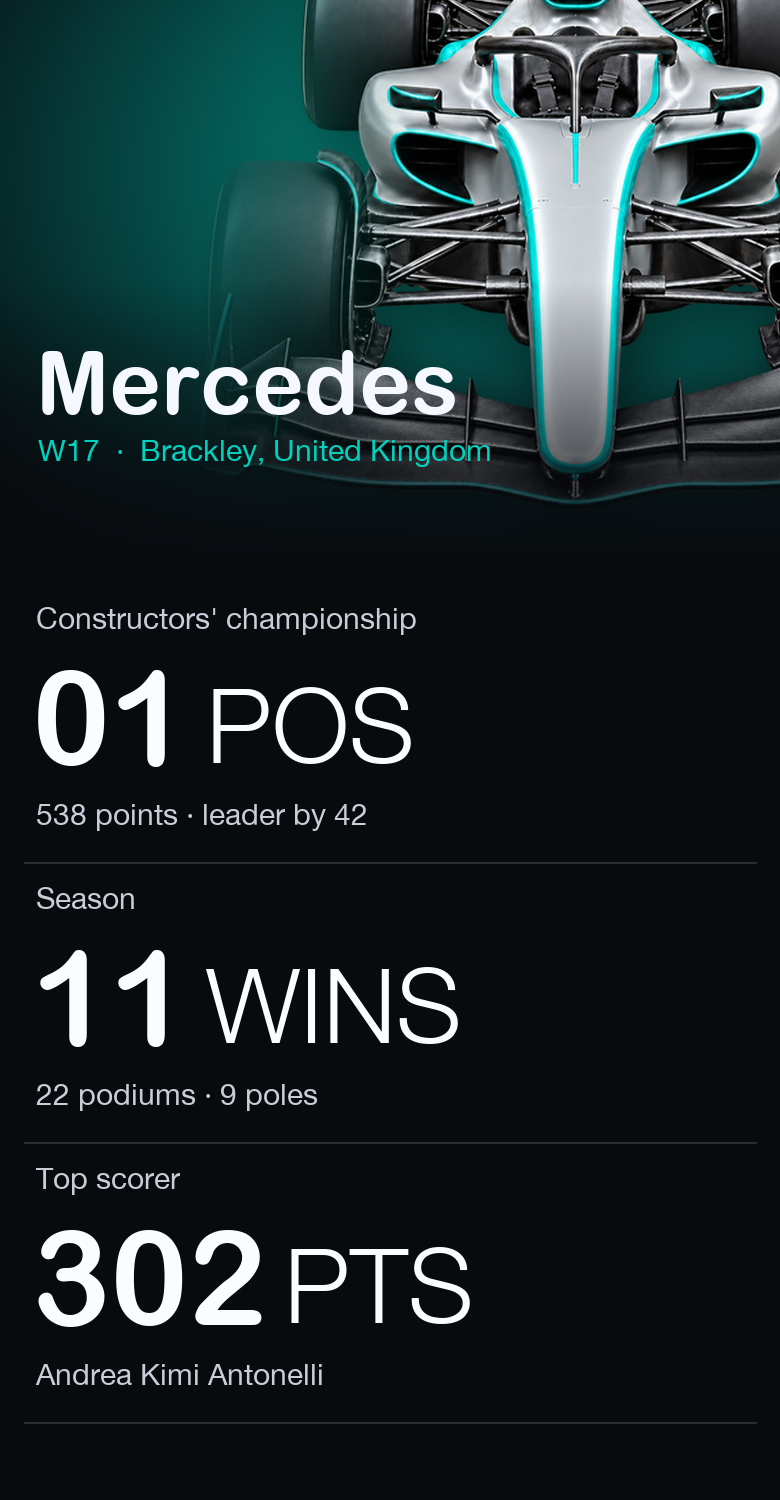
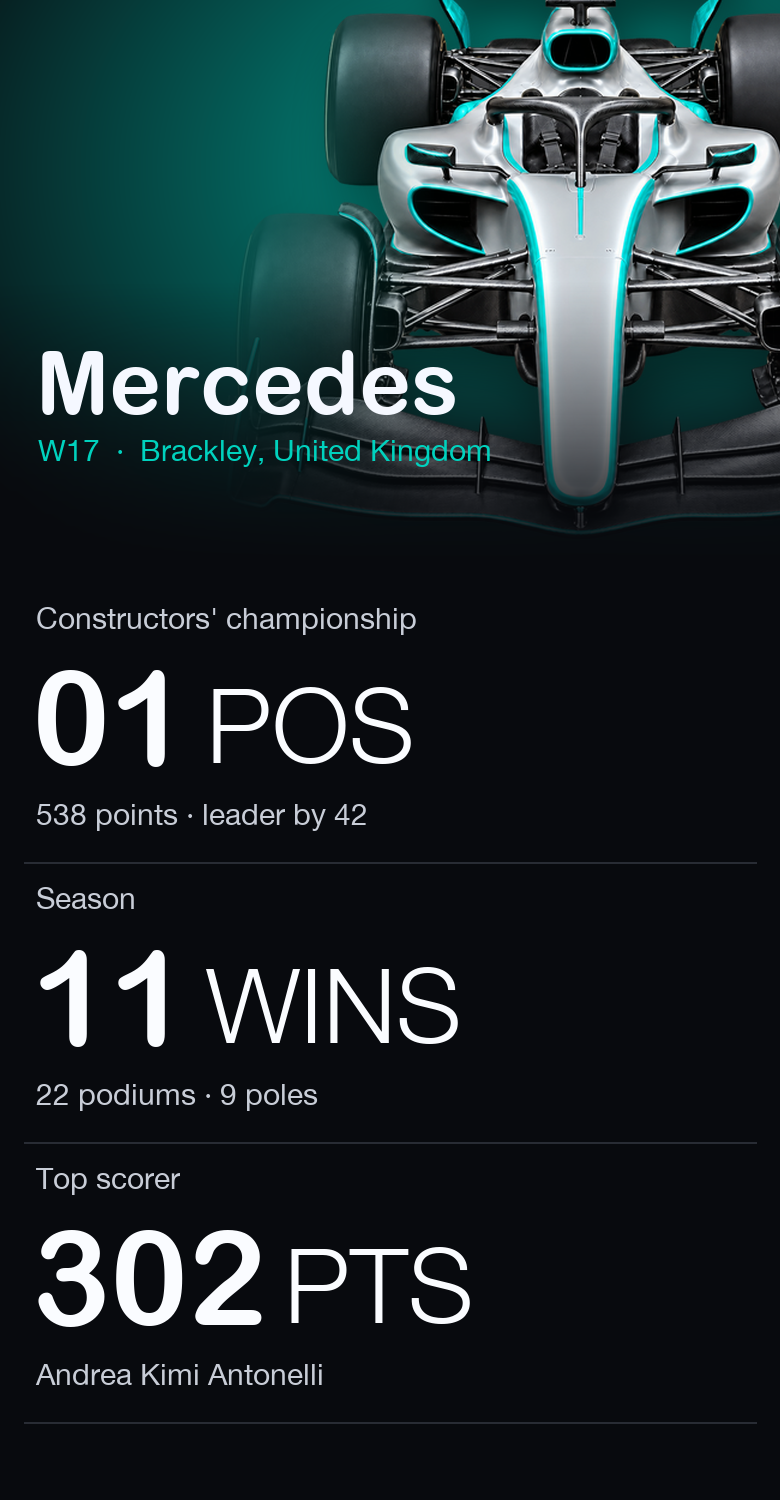
Team sheet mock: car smaller and lower again

Changed region(s): [[0.2769, 0.0, 1.0, 0.3373]]

diff --git a/scripts/design/mock_profile_sheets.py b/scripts/design/mock_profile_sheets.py
@@ -30,8 +30,8 @@ def team(out):
     car = trim(Image.open('Marketing/raw/art/Silver graphite open-wheel with turquoise accents.png').convert('RGBA'))
     car = car.resize((600, int(car.height*600/car.width)), Image.LANCZOS)
     # straight down from the top, on the right like the driver: the front half enters the sheet
-    car = car.resize((770, int(car.height*770/car.width)), Image.LANCZOS)
-    x0, y0 = W - car.width + 180, -car.height + 510
+    car = car.resize((720, int(car.height*720/car.width)), Image.LANCZOS)
+    x0, y0 = W - car.width + 160, -car.height + 540
     car = fade_left(car, 0.3)
     sh = Image.new('RGBA', car.size, (0,0,0,0)); sh.putalpha(car.getchannel('A').point(lambda a: int(a*0.5)))
     hdr.alpha_composite(sh.filter(ImageFilter.GaussianBlur(22)), (x0+10, y0+24))
